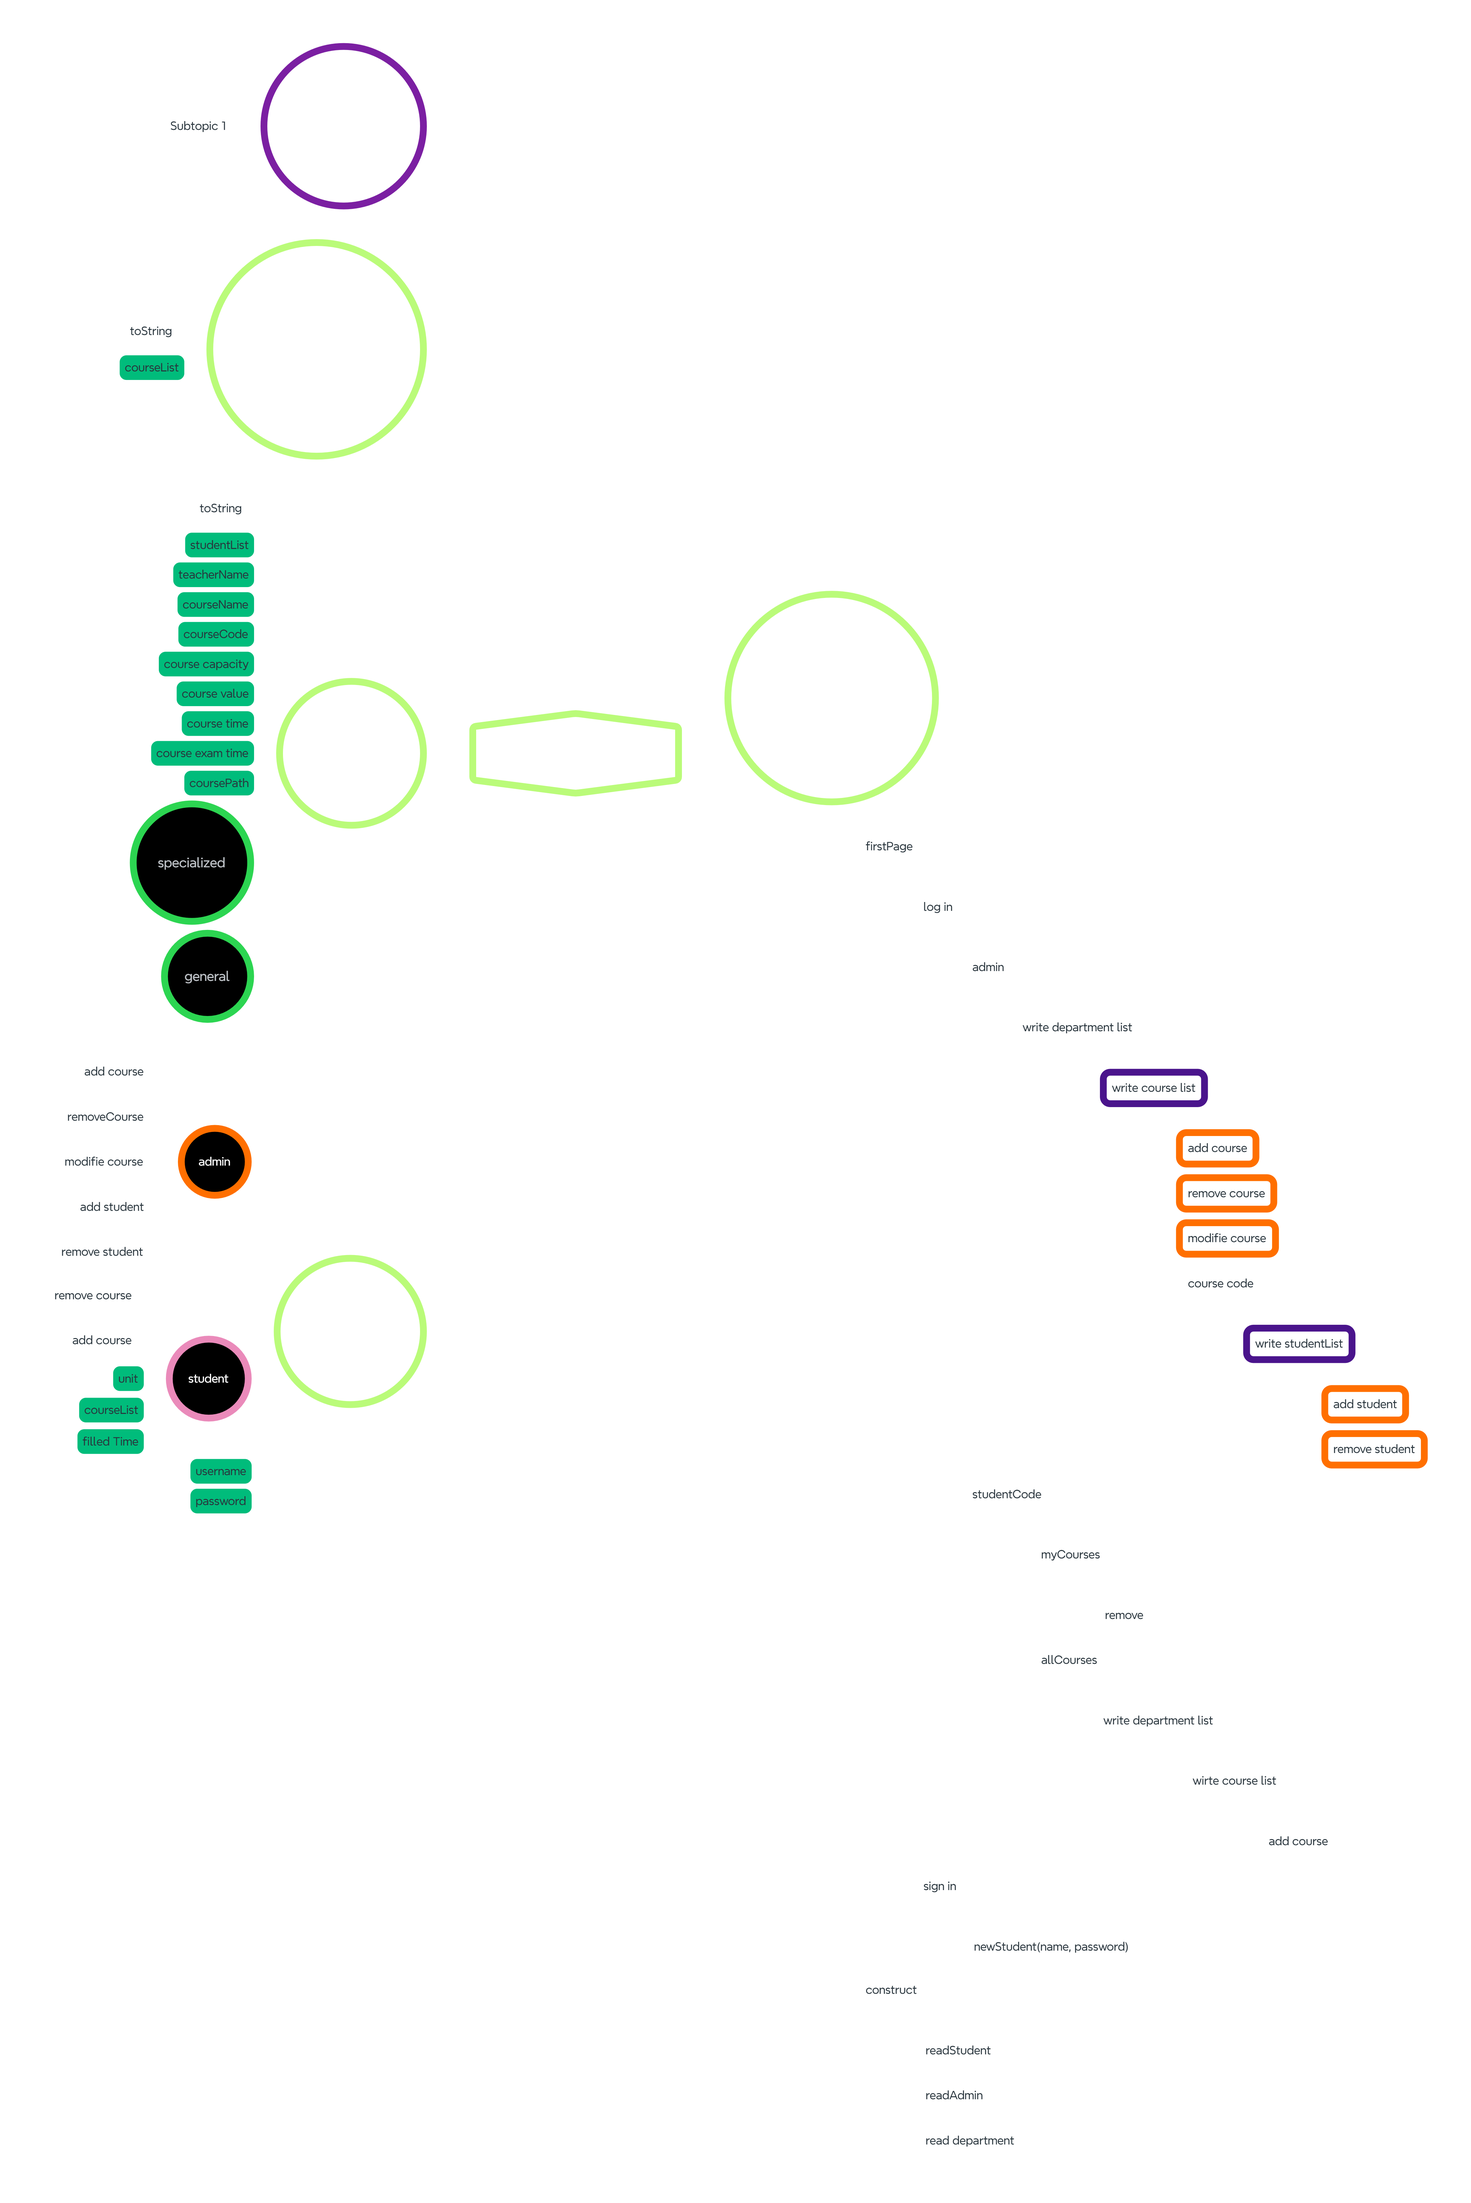
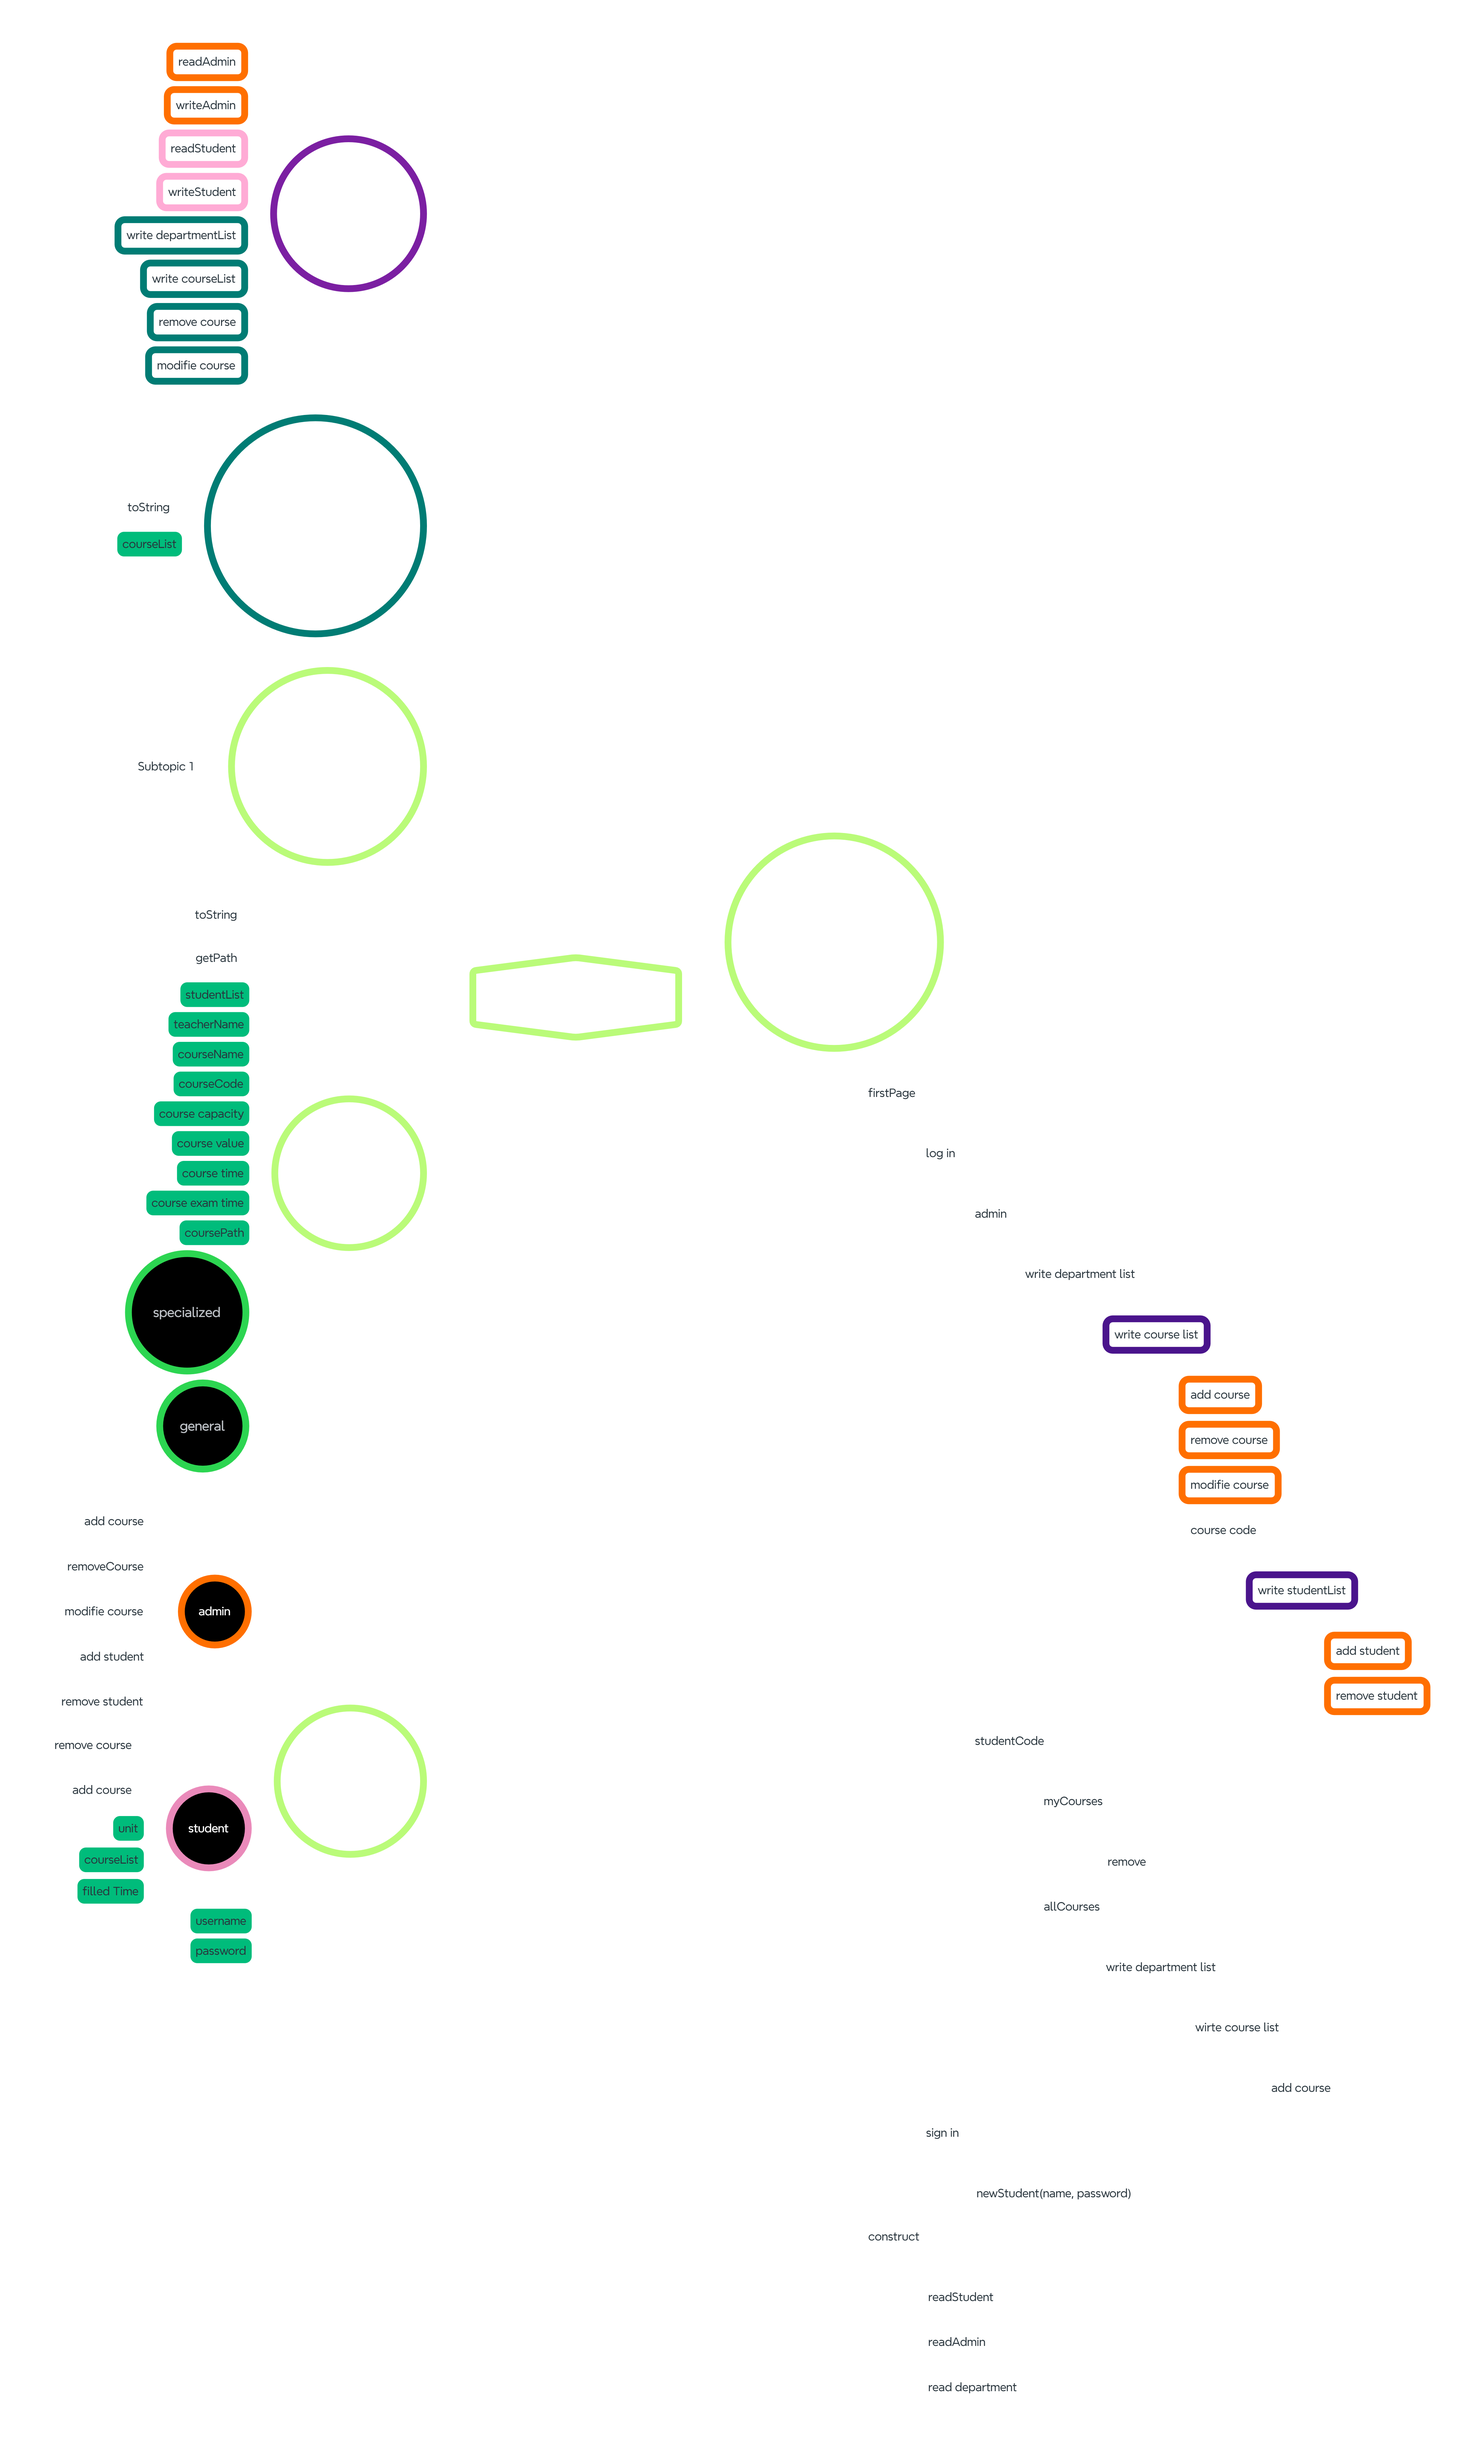
add users read and write

diff --git a/src/fileUtil.java b/src/fileUtil.java
@@ -1,0 +1,79 @@
+import java.io.File;
+import java.io.FileNotFoundException;
+import java.io.FileWriter;
+import java.io.IOException;
+import java.sql.Time;
+import java.util.Scanner;
+
+public class fileUtil {
+    static void writeAdmin(Admin admin) {
+        try {
+            File file = new File("src/file/admin");
+            if(!file.exists()) file.createNewFile();
+            FileWriter fileWriter = new FileWriter(file);
+            fileWriter.write(admin.getPassword());
+            fileWriter.close();
+        } catch (Exception e) {
+            System.out.println("Something went wrong. Please try again later");
+        }
+    }
+    static Admin readAdmin() {
+        try {
+            File file = new File("src/file/admin");
+            Scanner sc = new Scanner(file);
+            return new Admin(sc.next());
+        } catch (Exception e) {
+            System.out.println("The admin file has been removed");
+            return null;
+        }
+    }
+    static void writeStudent(Student student) {
+        try {
+            File file = new File("src/file/students/" + student.getUsername());
+            file.createNewFile();
+            FileWriter fileWriter = new FileWriter(file);
+            // write password
+            fileWriter.write(student.getPassword() + "\n");
+            // write unit
+            fileWriter.append(student.getUnit() + "\n");
+            // write timeTable
+            TimeTable timeTable = student.getTimeTable();
+            for (int i = 0; i < 7; i++) {
+                for (int j = 0; j < 24; j++)
+                    for (int k = 0; k < 2; k++)
+                        fileWriter.append((timeTable.getCell(i, j, k)? "1 ": "0 "));
+                fileWriter.append("\n");
+            }
+            // write courseList
+            for (Course course: student.getCourseList())
+                fileWriter.append(course.getPath() + "\n");
+            fileWriter.close();
+        } catch (Exception e) {
+            System.out.println("Something went wrong. Please try again later");
+        }
+    }
+    static Student readStudent(String code) throws Exception {
+        try {
+            File file = new File("src/file/students/" + code);
+            if (!file.exists()) {
+                System.out.println("This username does not exist!");
+                return null;
+            }
+            Scanner sc = new Scanner(file);
+            Student student = new Student(code, sc.next());
+            student.setUnit(sc.nextInt());
+            for (int i = 0; i < 7; i++)
+                for (int j = 0; j < 24; j++)
+                    for (int k = 0; k < 2; k++)
+                        student.getTimeTable().setCell(i, j, k, (sc.nextInt() == 1));
+            while (sc.hasNext())
+                student.getCourseList().add(readCourse(sc.next()));
+            return student;
+        } catch (Exception e) {
+            throw new Exception(e);
+        }
+    }
+    static Course readCourse(String s) {
+        return null;
+    }
+}

diff --git a/src/TimeTable.java b/src/TimeTable.java
@@ -1,0 +1,87 @@
+import java.util.Locale;
+
+public class TimeTable {
+    private boolean[][][] table = new boolean[7][24][2];
+    private String[] days = new String[]{"sunday", "monday", "tuesday", "wednesday", "thursday", "friday", "saturday"};
+    public boolean canAdd(TimeTable timeTable) {
+        boolean[][][] table = timeTable.getTable();
+        for (int i = 0; i < 7; i++)
+            for (int j = 0; j < 24; j++)
+                for (int k = 0; k < 2; k++)
+                    if (this.table[i][j][k] && table[i][j][k])
+                        return false;
+        return true;
+    }
+    private int getDay(String day) {
+        day = day.toLowerCase();
+        for (int i = 0; i < days.length; i++)
+            if (day.equals(days[i]))
+                return i;
+        return -1;
+    }
+    private String getDay(int day) {
+        return days[day];
+    }
+    public void setCell(int i, int j, int k, boolean b) {
+        try {
+            table[i][j][k] = b;
+        } catch (Exception e) {
+            System.out.println("out of bound in timeTable");
+        }
+    }
+    public boolean getCell(int i, int j, int k) {
+        try {
+            return table[i][j][k];
+        } catch (Exception e) {
+            System.out.println("out of bound in timeTable");
+            return false;
+        }
+    }
+    public boolean addInterval(String day1, int hour1, int minute1, String day2, int hour2, int minute2) {
+        TimeTable timeTable = new TimeTable();
+        boolean[][][] table = timeTable.getTable();
+        int day = getDay(day1);
+        int goal = getDay(day2);
+        do {
+            table[day][hour1][minute1] = true;
+            if (minute1 < 1) {
+                minute1++;
+                continue;
+            }
+            if (hour1 < 23) {
+                hour1++;
+                minute1 = 0;
+                continue;
+            }
+            day = (day + 1) % 7;
+            hour1 = 0;
+            minute1 = 0;
+        } while (day != goal || hour1 != hour2 || minute1 != minute2);
+        return addTable(timeTable);
+    }
+    public boolean addTable(TimeTable timeTable) {
+        if (!canAdd(timeTable))
+            return false;
+        boolean[][][] table = timeTable.getTable();
+        for (int i = 0; i < 7; i++)
+            for (int j = 0; j < 24; j++)
+                for (int k = 0; k < 2; k++)
+                    this.table[i][j][k] = this.table[i][j][k] | table[i][j][k];
+        return true;
+    }
+    public boolean[][][] getTable() {
+        return table;
+    }
+
+    @Override
+    public String toString() {
+        String result = "";
+        for (int i = 0; i < 7; i++) {
+            for (int j = 0; j < 24; j++)
+                for (int k = 0; k < 2; k++)
+                    result += table[i][j][k] + " ";
+            result += "\n";
+        }
+        return result;
+    }
+}

diff --git a/src/Student.java b/src/Student.java
@@ -1,0 +1,30 @@
+import java.sql.Time;
+import java.util.ArrayList;
+
+public class Student extends User {
+    private int unit;
+    private ArrayList<Course> courseList;
+    private TimeTable timeTable;
+    public Student (String username, String password) {
+        super(username, password);
+        courseList = new ArrayList<>();
+        timeTable = new TimeTable();
+    }
+    public ArrayList<Course> getCourseList() {
+        return courseList;
+    }
+    public TimeTable getTimeTable() {
+        return timeTable;
+    }
+
+    public void setUnit(int unit) {
+        this.unit = unit;
+    }
+
+    public int getUnit() {
+        return unit;
+    }
+
+    public Student() {
+    }
+}

diff --git a/src/Main.java b/src/Main.java
@@ -1,7 +1,15 @@
 import java.io.File;
-import java.io.IOException;
+import java.util.Scanner;
+import java.util.Set;
+import java.util.stream.*;
 
 public class Main {
-    public static void main(String[] args) throws IOException {
+    public static void main(String[] args) throws Exception {
+        Student student = new Student("402110576", "0250461293");
+        fileUtil.writeStudent(student);
+        student = fileUtil.readStudent("402110576");
+        System.out.println(student.getUsername());
+        System.out.println(student.getPassword());
+        System.out.println(student.getUnit());
     }
 }

diff --git a/src/User.java b/src/User.java
@@ -1,0 +1,26 @@
+public class User {
+    private String username;
+    private String password;
+    public User(String username, String password) {
+        this.username = username;
+        this.password = password;
+    }
+
+    public String getUsername() {
+        return username;
+    }
+    public String getPassword() {
+        return password;
+    }
+
+    public void setPassword(String password) {
+        this.password = password;
+    }
+
+    public void setUsername(String username) {
+        this.username = username;
+    }
+
+    public User(){
+    }
+}

diff --git a/src/Admin.java b/src/Admin.java
@@ -1,0 +1,9 @@
+import com.sun.security.jgss.GSSUtil;
+
+import java.io.IOException;
+
+public class Admin extends User {
+    public Admin (String password) {
+        super("admin", password);
+    }
+}

diff --git a/src/Course.java b/src/Course.java
@@ -1,0 +1,7 @@
+public class Course {
+    private String path;
+
+    public String getPath() {
+        return path;
+    }
+}

diff --git a/README.md b/README.md
@@ -1,4 +1,4 @@
-# test-git
+# HW-1
 بهار سادات هاشمی
 402110576
 ![project diagram](https://github.com/Bhashemi2005/HW-1/blob/main/project%20diagram.png)
